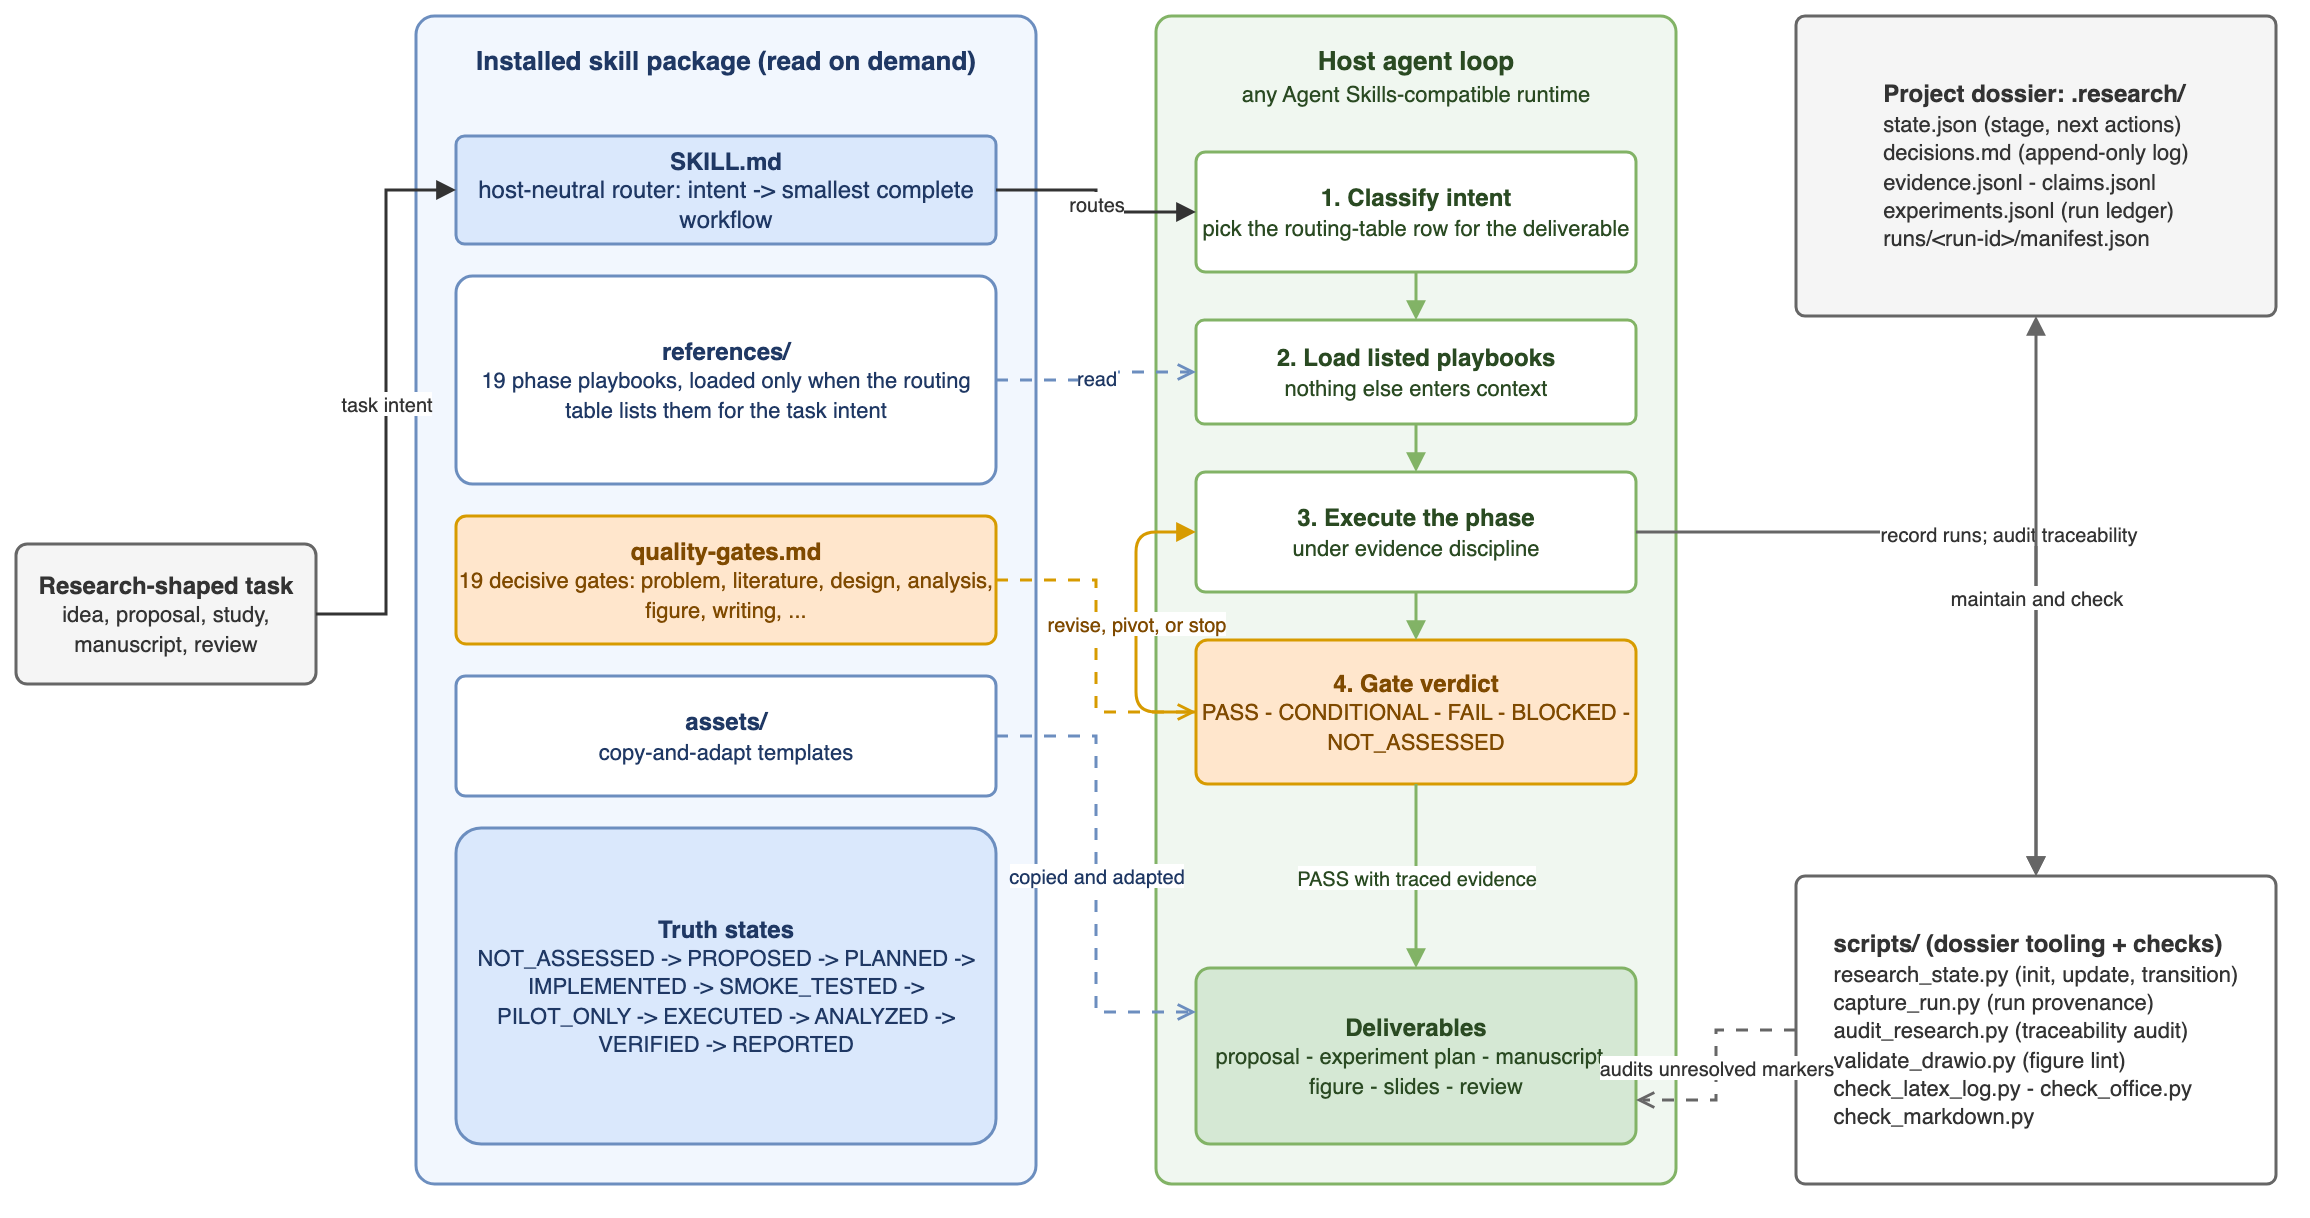
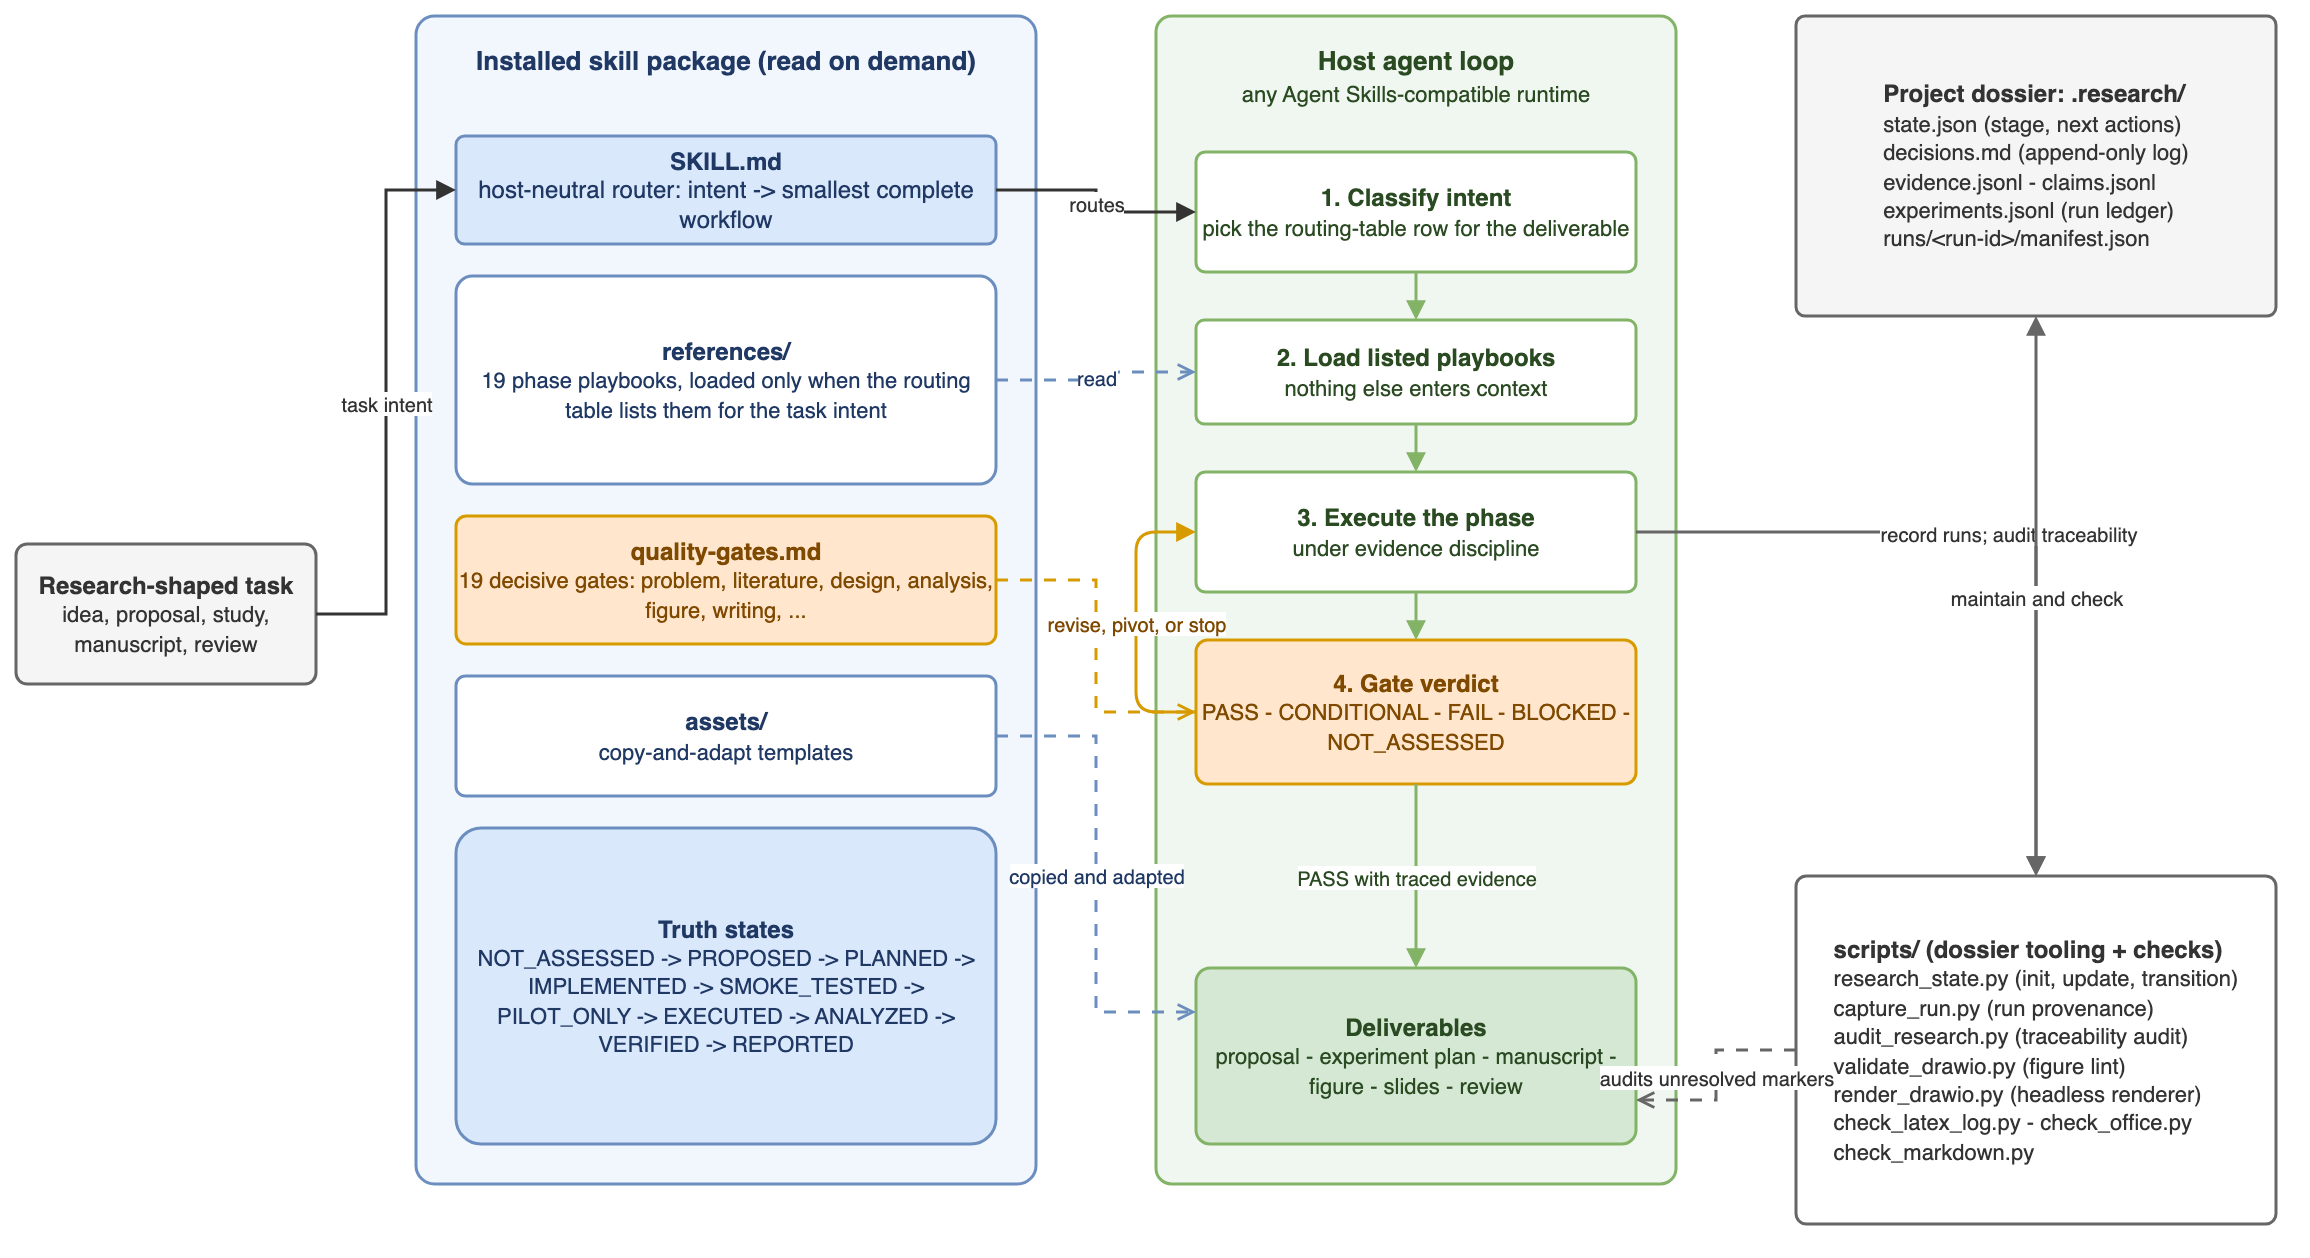
Fix full-audit findings F-1 to F-3 (#4)
- F-1: add render_drawio.py to the FIG-001 scripts box, enlarge the
  box, regenerate and re-inspect exports, and update the figure plan;
  add a sync test so the architecture figure can no longer silently
  omit an executable helper
- F-2: include figures/*.md in the CI markdown lint invocation
- F-3: gitignore the transient *.svg.check.png verification renders

diff --git a/tests/test_project_sync.py b/tests/test_project_sync.py
@@ -172,3 +172,14 @@ def test_executables_share_one_runtime_contract(monkeypatch: pytest.MonkeyPatch)
     assert markdown.PLACEHOLDERS is contract.PLACEHOLDERS
     assert office.PLACEHOLDERS is contract.PLACEHOLDERS
     assert drawio.PLACEHOLDERS is contract.PLACEHOLDERS
+
+
+def test_architecture_figure_lists_every_executable_helper() -> None:
+    figure = ROOT / "figures" / "fig-001-skill-architecture.drawio"
+    if not figure.is_file():
+        return
+    source = figure.read_text(encoding="utf-8")
+    for path in sorted((ROOT / "scripts").glob("*.py")):
+        if not path.read_bytes().startswith(b"#!"):
+            continue
+        assert path.name in source, f"architecture figure omits executable helper: {path.name}"

diff --git a/figures/fig-001-skill-architecture.plan.md b/figures/fig-001-skill-architecture.plan.md
@@ -38,9 +38,9 @@ Playbook: [../references/figures-and-diagrams.md](../references/figures-and-diag
 
 ## Verification
 
-- Structural check command and result (for example `python3 scripts/validate_drawio.py figures/fig.drawio`): `python3 scripts/validate_drawio.py figures/fig-001-skill-architecture.drawio --strict --min-font-size 10` — pass (2026-08-27)
-- Render inspected at target size (how, by whom, date): PNG and SVG re-render (.svg.check.png) inspected visually by the authoring agent at full page width, 2026-08-27
-- Defects found and fixed: first render showed an edge crossing the scripts/ box text, an audit-label overlapping the scripts/ title, and two colliding route labels near the gate box; fixed by re-routing the audit edge to originate at scripts/ (exit left), entering scripts/ from the top for the run-recording edge, shortening three labels, and removing one redundant label; second render is clean
+- Structural check command and result (for example `python3 scripts/validate_drawio.py figures/fig.drawio`): `python3 scripts/validate_drawio.py figures/fig-001-skill-architecture.drawio --strict --min-font-size 10` — pass (2026-08-27, rerun after F-1 fix)
+- Render inspected at target size (how, by whom, date): PNG and SVG re-render (.svg.check.png) inspected visually by the authoring agent at full page width, 2026-08-27 (initial) and 2026-08-27 (F-1 re-render)
+- Defects found and fixed: first render showed an edge crossing the scripts/ box text, an audit-label overlapping the scripts/ title, and two colliding route labels near the gate box; fixed by re-routing the audit edge to originate at scripts/ (exit left), entering scripts/ from the top for the run-recording edge, shortening three labels, and removing one redundant label; second render is clean. Full-repo audit finding F-1 (scripts/ box omitted render_drawio.py) fixed by adding the line and extending the box; re-rendered and re-inspected clean.
 - Caption draft: "Skill architecture. SKILL.md routes a task to the smallest complete workflow of phase playbooks; every phase closes at a decisive gate, and provenance lives in the project .research/ dossier maintained with scripts/."
 - Current venue figure rules source and access date: not applicable (README on GitHub; no venue constraints). GitHub renders SVG and PNG in Markdown.
 - Figure gate verdict (PASS, CONDITIONAL, FAIL, BLOCKED, or NOT_ASSESSED): PASS
